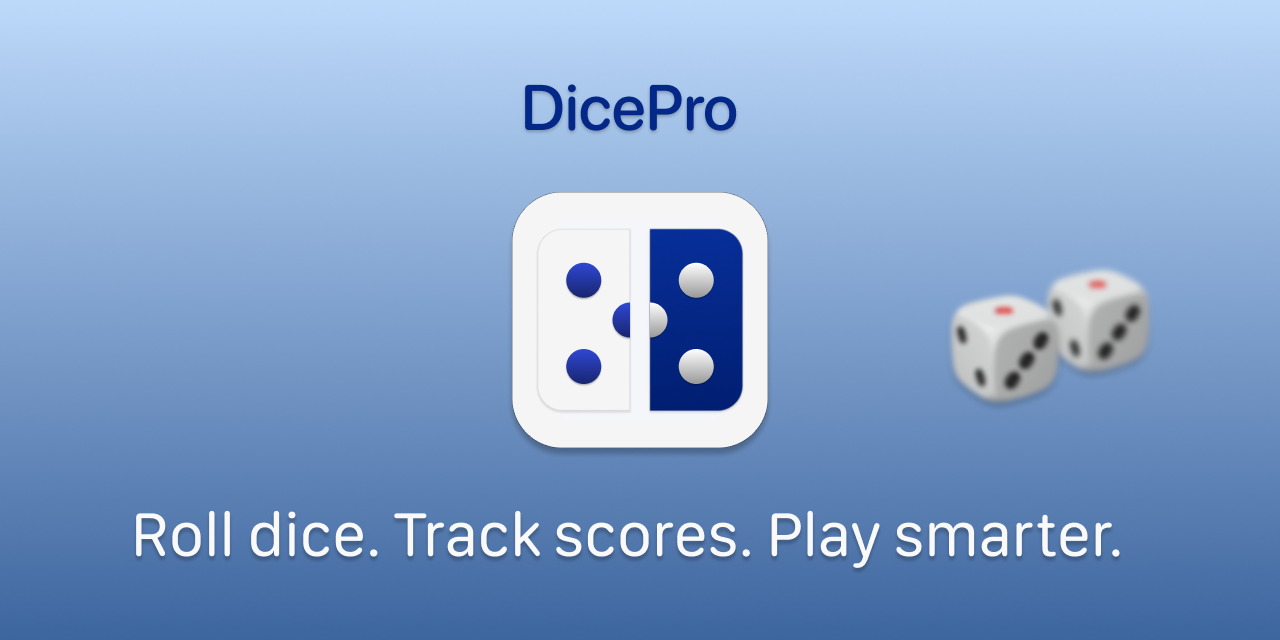
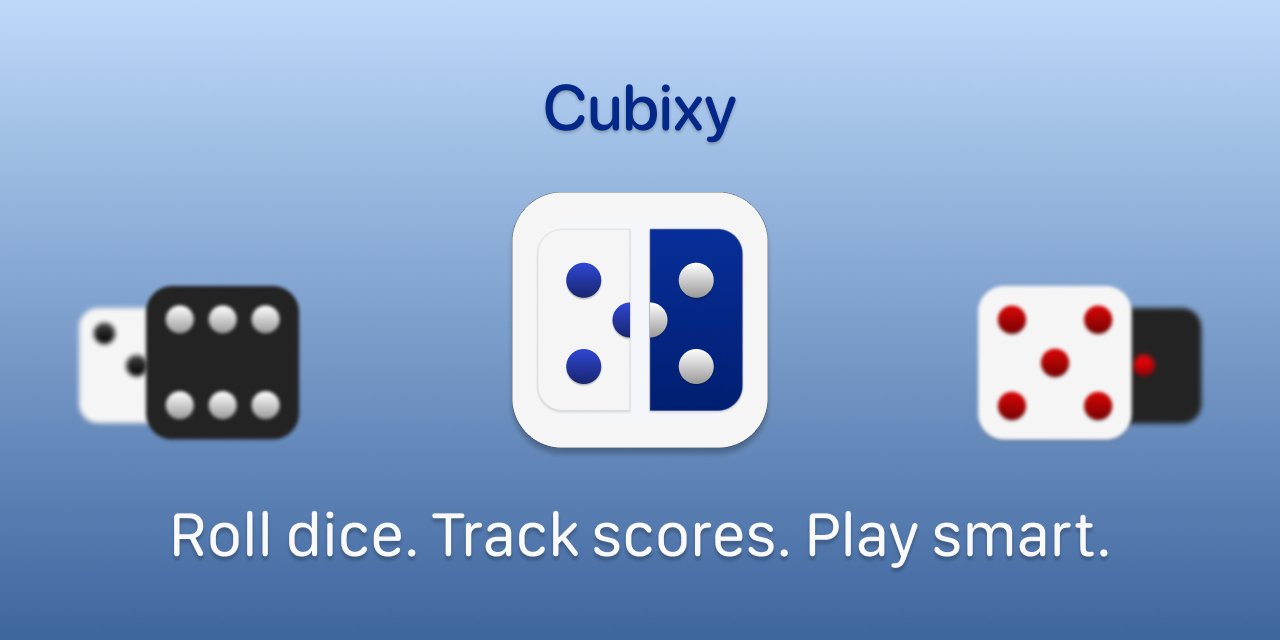
Update screenshots and GIF animation

diff --git a/DicePro/Controller/DiceViewController.swift b/DicePro/Controller/DiceViewController.swift
@@ -193,7 +193,7 @@ class DiceViewController: UIViewController {
             // Fallback for earlier iOS versions (no view-based initializer available).
         }
         
-        title = "DicePro"
+        title = "Cubixy"
         view.backgroundColor = .systemBackground
         view.preservesSuperviewLayoutMargins = true
         

diff --git a/README.md b/README.md
@@ -2,9 +2,9 @@
   <img src="Images/Preview.png" width="800">
 </p>
 
-# DicePro
+# Cubixy
 
-DicePro is a lightweight iOS dice rolling app built with UIKit and a fully programmatic UI. 
+Cubixy is a lightweight iOS dice rolling app built with UIKit and a fully programmatic UI. 
 The project demonstrates clean structure, adaptive layout, and smooth interactions.
 
 <p align="center">
@@ -21,7 +21,7 @@ The project demonstrates clean structure, adaptive layout, and smooth interactio
 
 ## Purpose
 
-DicePro solves a simple but common problem:
+Cubixy solves a simple but common problem:
 providing a clean, intuitive, and fast way to roll one or two dice during board games or casual play.
 
 The app focuses on:
@@ -93,7 +93,7 @@ Extensions/
 Clone the repository and open the project in Xcode:
 
 ```bash
-git clone https://github.com/dsokolovdev/DicePro.git
+git clone https://github.com/dsokolovdev/CubixyApp.git
 cd DicePro
 open DicePro.xcodeproj
 ```
@@ -101,4 +101,4 @@ open DicePro.xcodeproj
 ## ❤ Author
 
 Created by Dmitry Sokolov  
-© 2025
+© 2026
